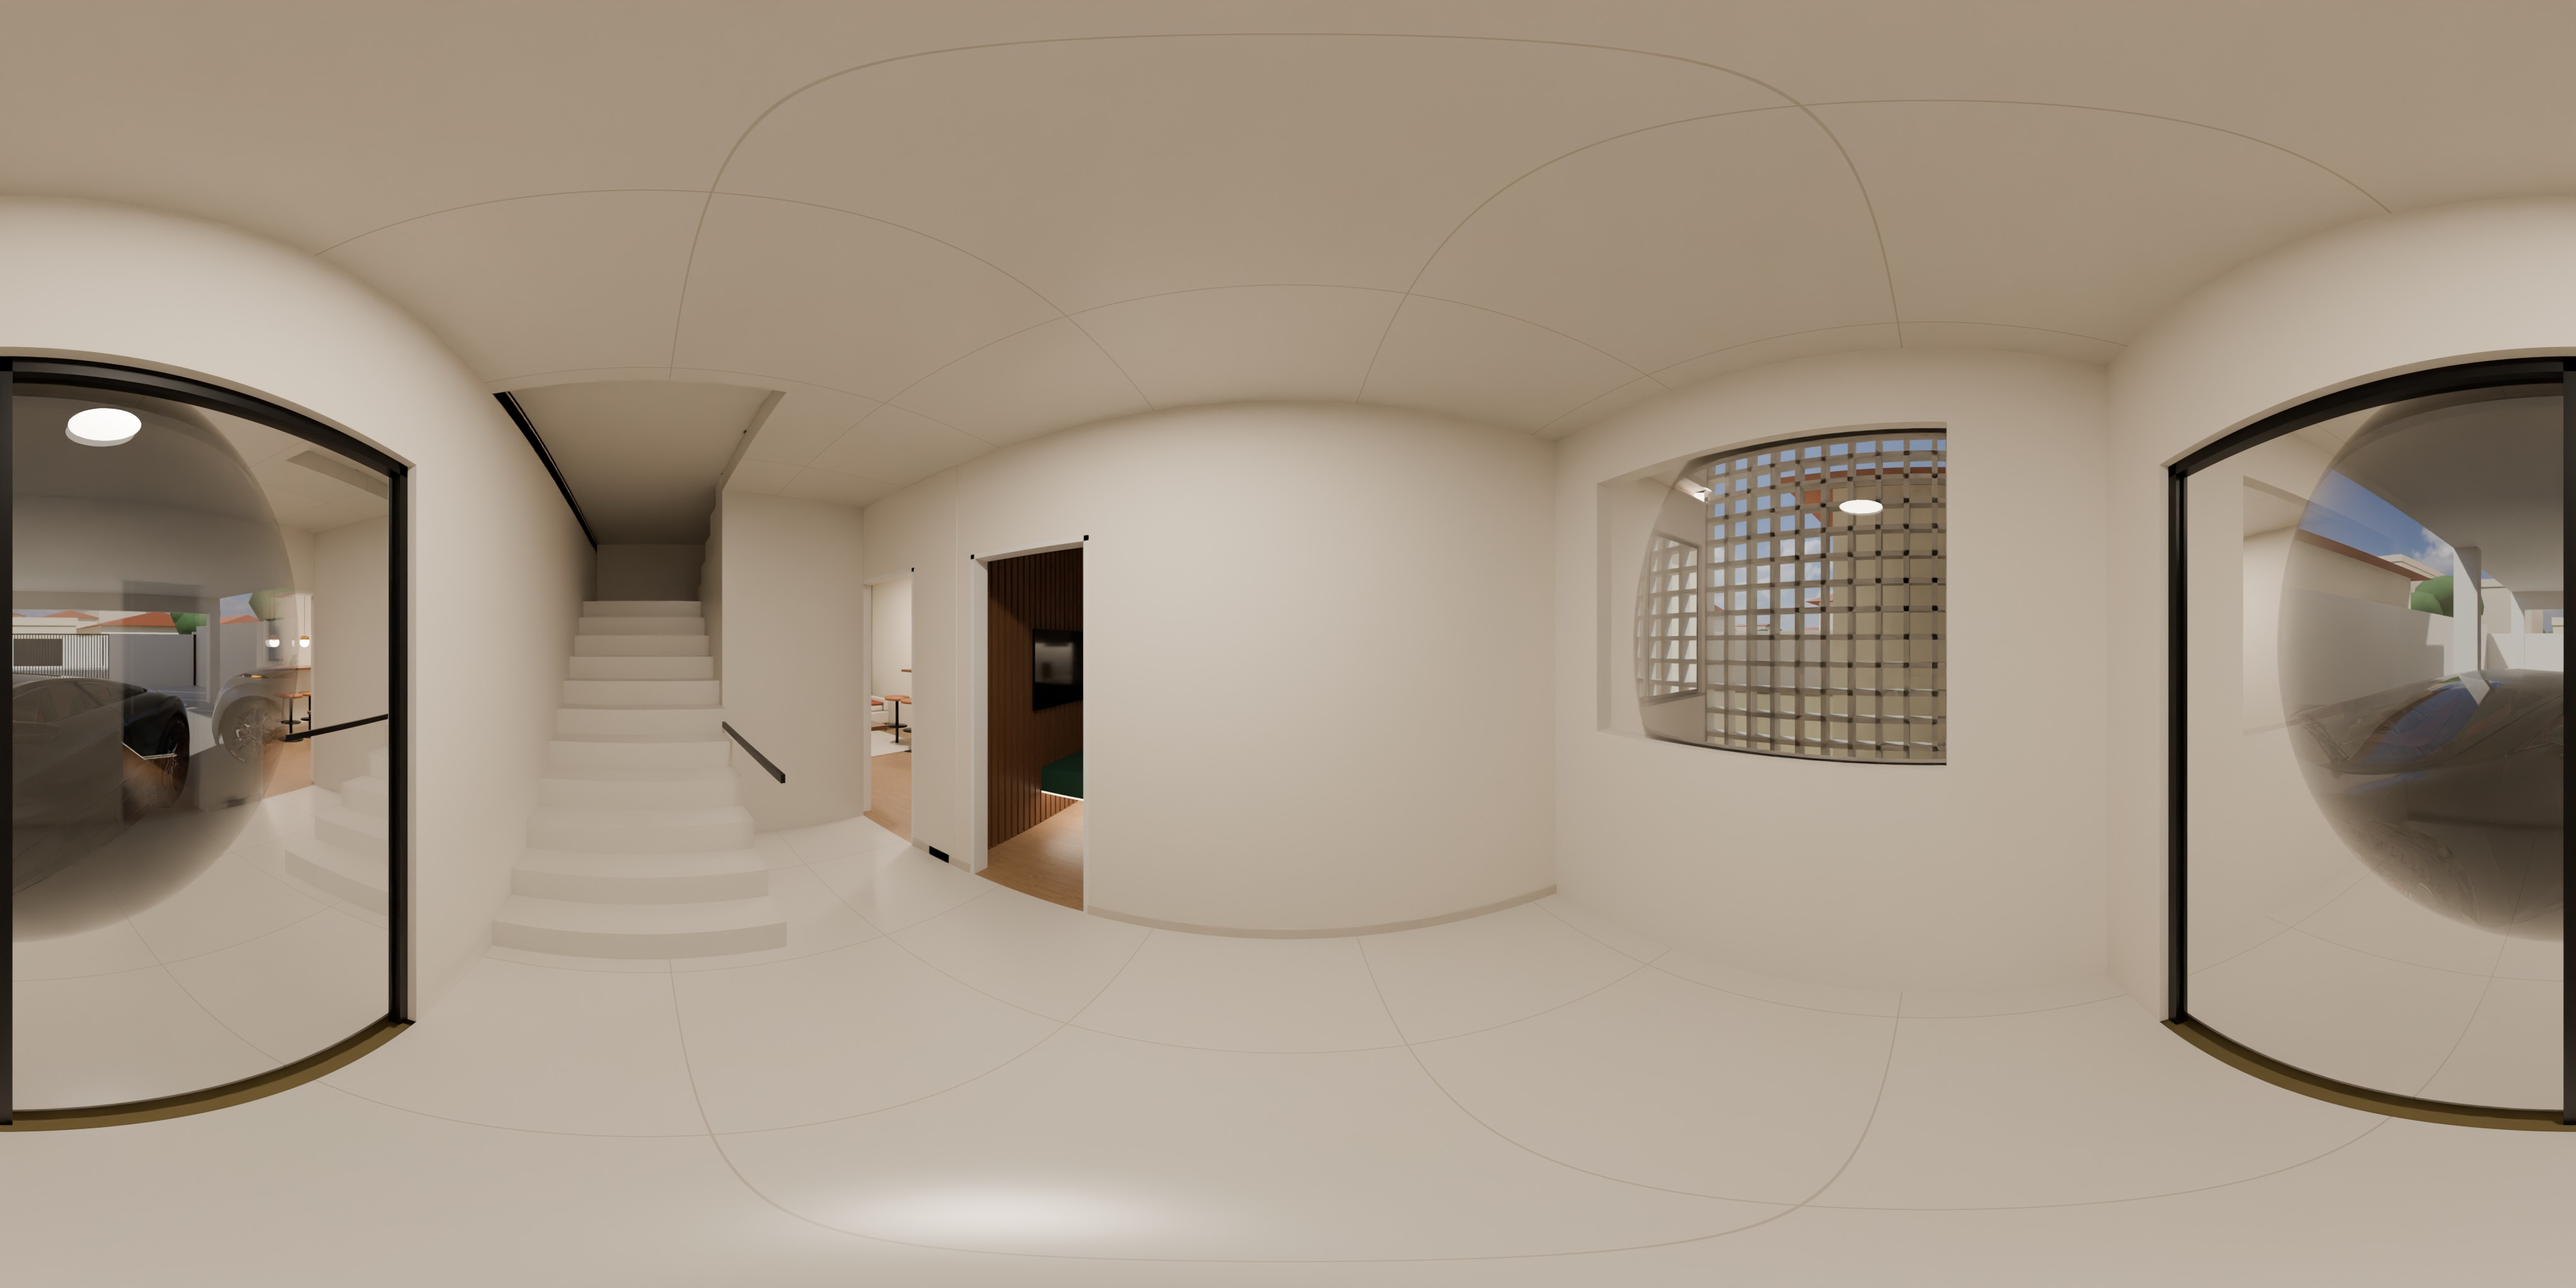
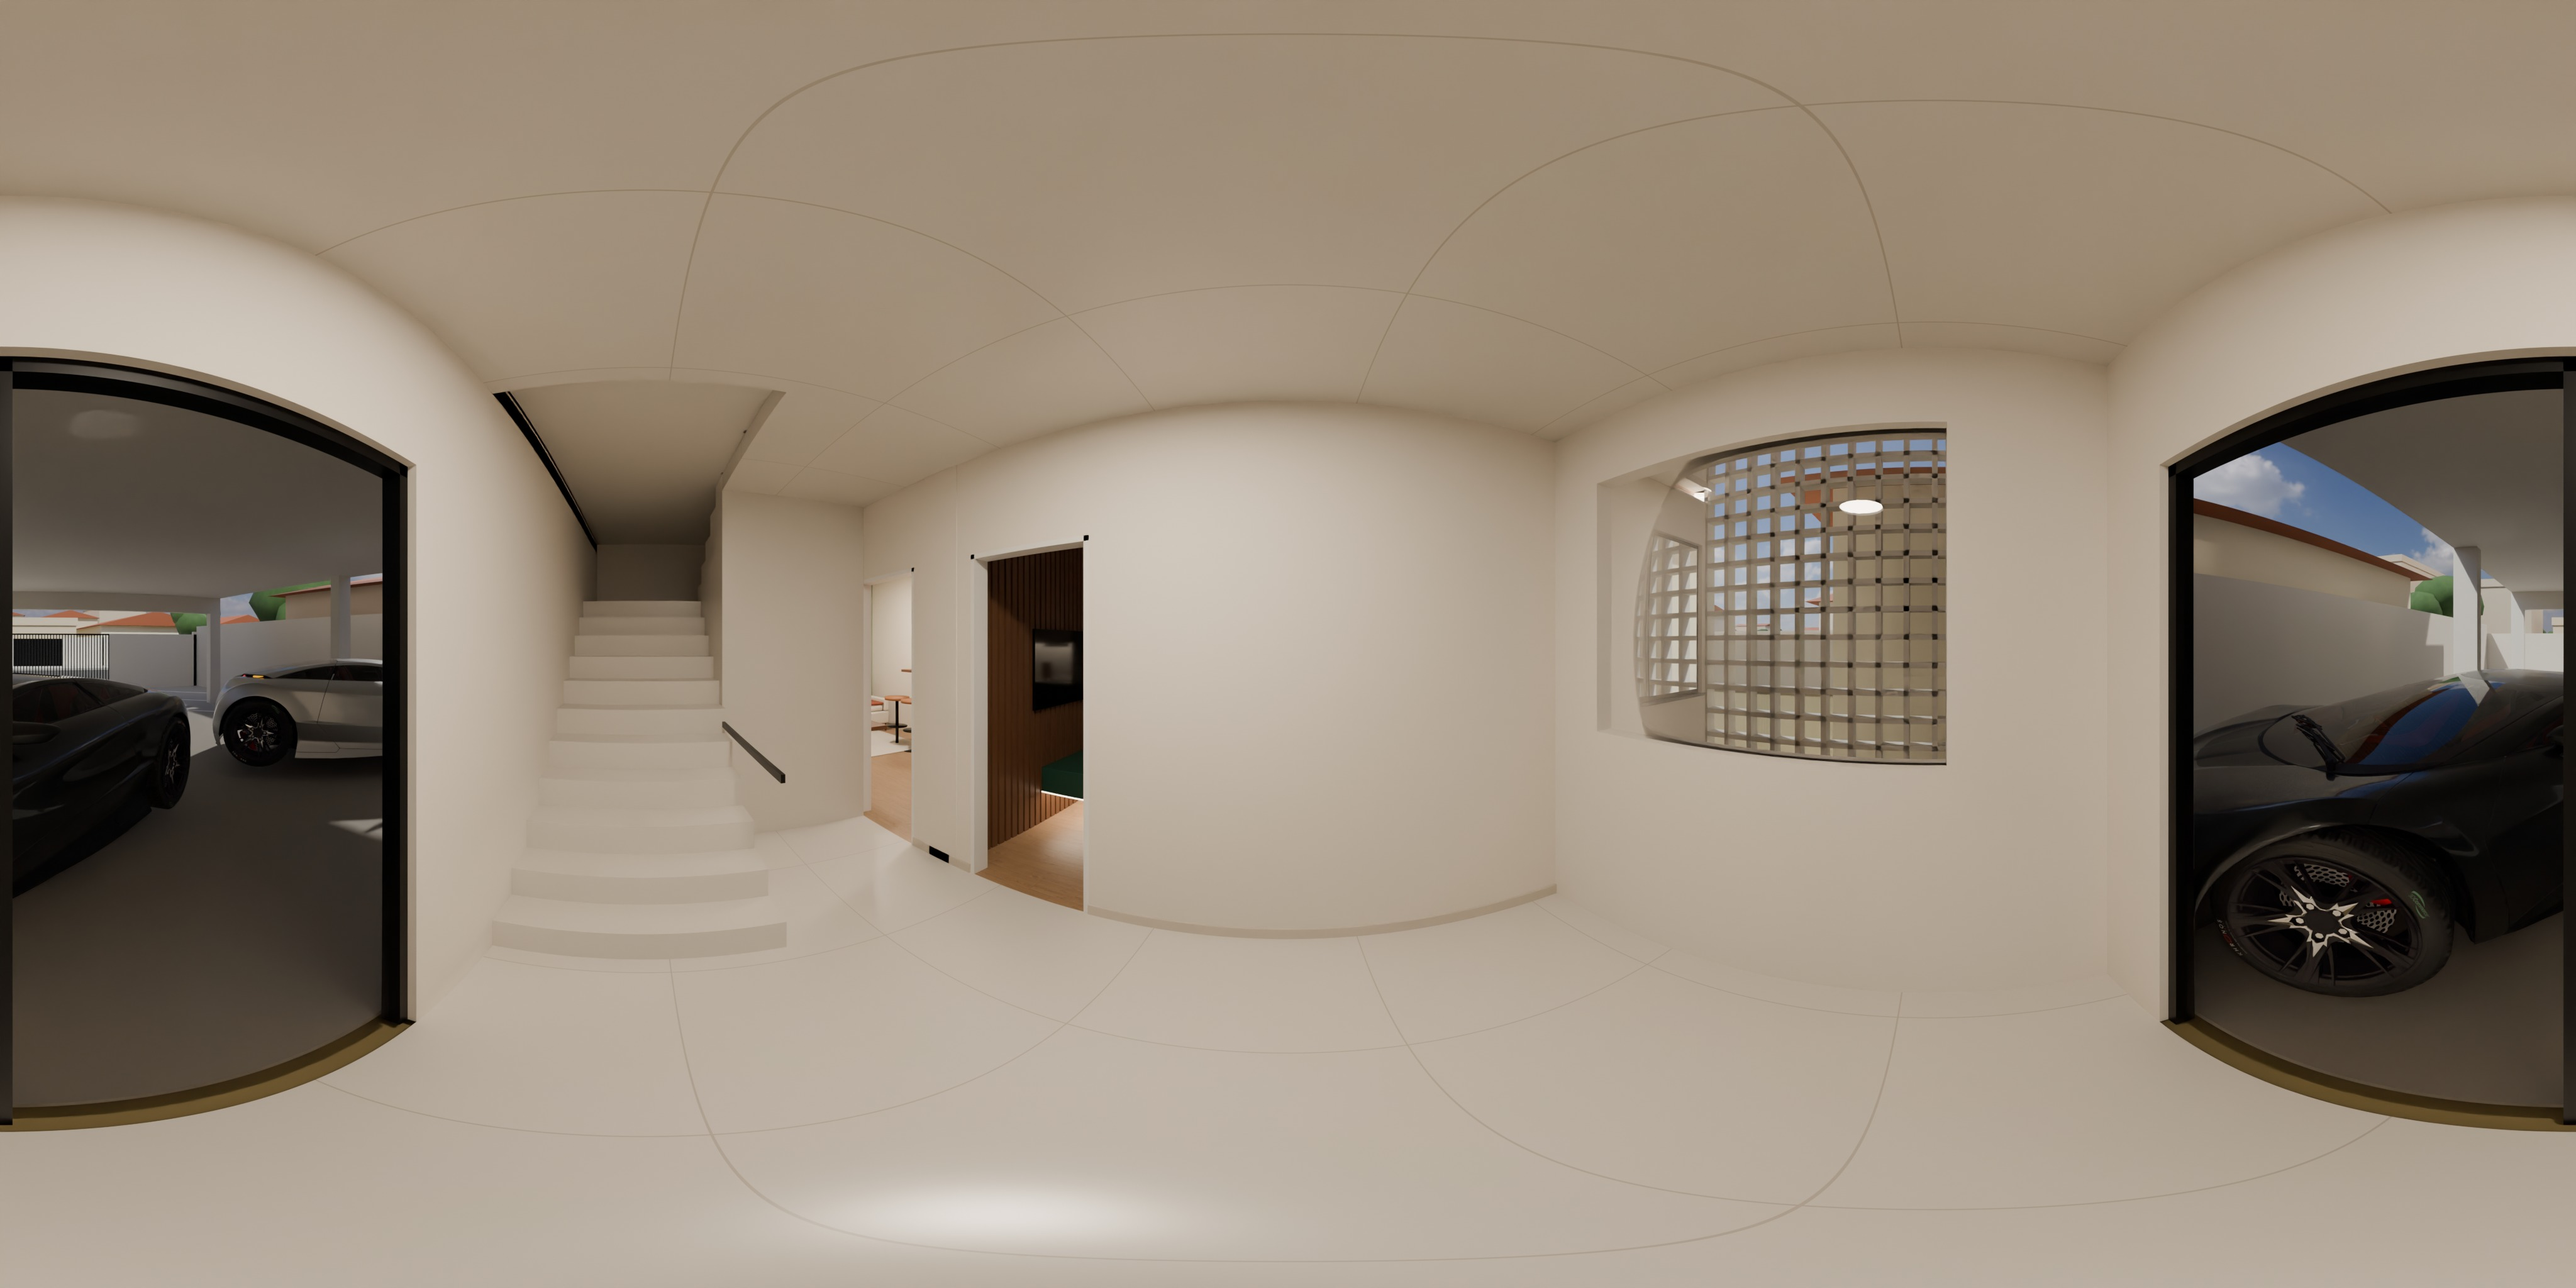
Tour 3D: vidro da entrada sem reflexo-bolha (hall terreo e estacionamento)

Changed region(s): [[0.0, 0.2812, 0.1562, 0.875], [0.8438, 0.3125, 1.0, 0.875], [0.9375, 0.2812, 1.0, 0.3125]]

diff --git a/index.html b/index.html
@@ -46,7 +46,9 @@ body{margin:0;background:var(--verde-fundo);color:var(--areia);font-family:var(-
 .sala-g rect{fill:rgba(239,231,218,.06);stroke:rgba(239,231,218,.35);stroke-width:.04;cursor:pointer;transition:fill .2s}
 .sala-g:hover rect{fill:rgba(239,231,218,.14)}
 .sala-g.ativo rect{fill:rgba(197,106,67,.30);stroke:var(--terracota-claro)}
+.sala-g,.predio-g{outline:none}
 .sala-g:focus-visible rect{stroke:#fff;stroke-width:.08}
+.predio-g:focus-visible rect{stroke:#fff;stroke-width:2}
 .sala-g text{fill:var(--areia);font-family:var(--fonte);pointer-events:none}
 .fosso rect{fill:url(#hachura);stroke:rgba(239,231,218,.2);stroke-width:.03}
 .lista{display:grid;gap:2px;margin:0;padding:0;list-style:none}
@@ -133,7 +135,7 @@ const TIPOS = {
            w:8.52, h:6.76, x0:-1.24, fossos:[]}
 };
 // cena: tipo, nome, área, arquivo, posição da câmera, retângulo na planta, altura do olho acima do piso
-const VERSAO_PANOS = "2909-0930";   // trocar a cada nova leva de 360 (fura o cache do GitHub Pages)
+const VERSAO_PANOS = "2909-0940";   // trocar a cada nova leva de 360 (fura o cache do GitHub Pages)
 const CENAS = {
   estacionamento:{tipo:"predio", nome:"Estacionamento", area:"8 vagas, 2 cobertas", pano:"x_estacionamento", cam:[-13.8,4.9], olho:1.6, yaw:0},
   hall_terreo:   {tipo:"predio", nome:"Hall de entrada", area:"2,40 m de largura · escada de 1,20", pano:"x_hall_terreo", cam:[-1.9,6.9], olho:1.55, yaw:-100},
